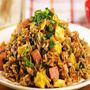
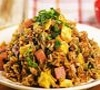
Archivo Menu
Metodos para crear y cargar archivo desde el controlador
Tamaño de Imaganes cambiado

diff --git a/src/controlador/ControladorArchivoMenu.java b/src/controlador/ControladorArchivoMenu.java
@@ -19,21 +19,20 @@ import modelo.Menu;
  */
 public class ControladorArchivoMenu {
 
-    private ArrayList<Comida> comidas;
-
-    public ControladorArchivoMenu() {
-        comidas = new ArrayList<Comida>();
-        leerArchivo();
-    }
-
-    public void leerArchivo() {
+//    private ArrayList<Comida> comidas;
+//
+//    public ControladorArchivoMenu() {
+//        comidas = new ArrayList<Comida>();
+//        leerArchivo();
+//    }
+    public void leerArchivo(ArrayList<Comida> a) {
         try {
             FileInputStream file = new FileInputStream("Comidas.dat");
             ObjectInputStream fileInput = new ObjectInputStream(file);
             boolean finArchivo = false;
             while (!finArchivo) {
                 try {
-                    comidas.add((Comida) fileInput.readObject());
+                    a.add((Comida) fileInput.readObject());
                 } catch (EOFException e) {
                     finArchivo = true;
                 } catch (Exception e) {
@@ -41,18 +40,17 @@ public class ControladorArchivoMenu {
                 }
             }
             fileInput.close();
-            cargarMenu();
         } catch (IOException e) {
             JOptionPane.showMessageDialog(null, "Sin comidas.");
         }
     }
 
-    public void salvarArchivo() {
+    public void salvarArchivo(ArrayList<Comida> a) {
         try {
             FileOutputStream file = new FileOutputStream("Comidas.dat");
             ObjectOutputStream fileOut = new ObjectOutputStream(file);
-            for (int i = 0; i < comidas.size(); i++) {
-                fileOut.writeObject(comidas.get(i));
+            for (int i = 0; i < a.size(); i++) {
+                fileOut.writeObject(a.get(i));
             }
             fileOut.close();
             JOptionPane.showMessageDialog(null, "Las comidas fueron registradas.");
@@ -61,42 +59,93 @@ public class ControladorArchivoMenu {
         }
     }
 
-    public void cargarComidas(ArrayList<Comida> comidas) {
-        Menu miMenu = Menu.getMenu();
-        for (Comida i : this.comidas) {
-            miMenu.addComida(i);
-        }
-    }
-
+//    public void cargarComidas(ArrayList<Comida> comidas) {
+//        Menu miMenu = Menu.getMenu();
+//        for (Comida i : this.comidas) {
+//            miMenu.addComida(i);
+//        }
+//    }
     //Para inicializar las comidas, luego borrar metodo.
-    public void inicializarMenu() {
+    public void inicializarMenu(ArrayList<Comida> a) {
+        Inventario miInventario = Inventario.getInventario();
+
         // comidas predefinidas
-        /*
-        Comida com0 = new Comida("Lomo Saltado", 12.5f);
-        Comida com1 = new Comida("Ají de Gallina", 10.0f);
-        Comida com2 = new Comida("Arroz con Pollo", 10.0f);        
-        Comida com3 = new Comida("Arroz Chaufa", 8.5f);
-        Comida com4 = new Comida("Aeropuerto", 12.0f);
-        Comida com5 = new Comida("Tallarín Saltado", 11.0f);
-        Comida com6 = new Comida("Seco a la Norteña", 13.50f);
-        Comida com7 = new Comida("Ceviche", 12.0f);
-         
-        comidas.add(com0);
-        comidas.add(com1);
-        comidas.add(com2);
-        comidas.add(com3);
-        comidas.add(com4);
-        comidas.add(com5);
-        comidas.add(com6);
-        comidas.add(com7);
-         */
-        salvarArchivo();
+        Comida com0 = new Comida("Lomo Saltado", 12.5f, "/imagenes/arrayComida/comida1.jpg");
+        Comida com1 = new Comida("Ají de Gallina", 10.0f, "/imagenes/arrayComida/comida2.jpg");
+        Comida com2 = new Comida("Arroz con Pollo", 10.0f, "/imagenes/arrayComida/comida3.jpg");
+        Comida com3 = new Comida("Arroz Chaufa", 8.5f, "/imagenes/arrayComida/comida4.jpg");
+        Comida com4 = new Comida("Aeropuerto", 12.0f, "/imagenes/arrayComida/comida5.jpg");
+        Comida com5 = new Comida("Tallarín Saltado", 11.0f, "/imagenes/arrayComida/comida6.jpg");
+        Comida com6 = new Comida("Seco a la Norteña", 13.50f, "/imagenes/arrayComida/comida7.jpg");
+        Comida com7 = new Comida("Ceviche", 12.0f, "/imagenes/arrayComida/comida8.jpg");
+
+        com0.agregarIngrediente(miInventario.buscarIngrediente("Lomo"));
+        com0.agregarIngrediente(miInventario.buscarIngrediente("Arroz"));
+        com0.agregarIngrediente(miInventario.buscarIngrediente("Papa"));
+        com0.agregarIngrediente(miInventario.buscarIngrediente("Cebolla"));
+
+        com1.agregarIngrediente(miInventario.buscarIngrediente("Gallina"));
+        com1.agregarIngrediente(miInventario.buscarIngrediente("Aji amarillo"));
+        com1.agregarIngrediente(miInventario.buscarIngrediente("Papa"));
+        com1.agregarIngrediente(miInventario.buscarIngrediente("Arroz"));
+
+        com2.agregarIngrediente(miInventario.buscarIngrediente("Arroz"));
+        com2.agregarIngrediente(miInventario.buscarIngrediente("Pollo"));
+        com2.agregarIngrediente(miInventario.buscarIngrediente("Alverjas"));
+        com2.agregarIngrediente(miInventario.buscarIngrediente("Zanahoria"));
+
+        com3.agregarIngrediente(miInventario.buscarIngrediente("Arroz"));
+        com3.agregarIngrediente(miInventario.buscarIngrediente("Pollo"));
+        com3.agregarIngrediente(miInventario.buscarIngrediente("Huevo"));
+        com3.agregarIngrediente(miInventario.buscarIngrediente("Pimenton"));
+
+        com4.agregarIngrediente(miInventario.buscarIngrediente("Pollo"));
+        com4.agregarIngrediente(miInventario.buscarIngrediente("Arroz"));
+        com4.agregarIngrediente(miInventario.buscarIngrediente("Huevo"));
+        com4.agregarIngrediente(miInventario.buscarIngrediente("Fideos"));
+
+        com5.agregarIngrediente(miInventario.buscarIngrediente("Fideos"));
+        com5.agregarIngrediente(miInventario.buscarIngrediente("Res"));
+        com5.agregarIngrediente(miInventario.buscarIngrediente("Cebolla China"));
+        com5.agregarIngrediente(miInventario.buscarIngrediente("Tomate"));
+
+        com6.agregarIngrediente(miInventario.buscarIngrediente("Res"));
+        com6.agregarIngrediente(miInventario.buscarIngrediente("Alverjas"));
+        com6.agregarIngrediente(miInventario.buscarIngrediente("Cebolla"));
+        com6.agregarIngrediente(miInventario.buscarIngrediente("Arroz"));
+
+        com7.agregarIngrediente(miInventario.buscarIngrediente("Pescado"));
+        com7.agregarIngrediente(miInventario.buscarIngrediente("Cebolla"));
+        com7.agregarIngrediente(miInventario.buscarIngrediente("Limones"));
+        com7.agregarIngrediente(miInventario.buscarIngrediente("Camote"));
+
+        a.add(com0);
+        a.add(com1);
+        a.add(com2);
+        a.add(com3);
+        a.add(com4);
+        a.add(com5);
+        a.add(com6);
+        a.add(com7);
+
     }
 
-    public void cargarMenu() {
+    public ArrayList<Comida> crearArrayList() {
+        ArrayList<Comida> a = new ArrayList<>();
+        return a;
+    }
+
+    public void cargarArchivo() {
         Menu miMenu = Menu.getMenu();
-        for (Comida i : this.comidas) {
-            miMenu.addComida(i);
-        }
+        ArrayList<Comida> temp = crearArrayList();
+        leerArchivo(temp);
+        miMenu.cargarComidas(temp);
+    }
+
+    public void crearArchivo() {
+        ArrayList<Comida> temp = crearArrayList();
+        leerArchivo(temp);
+        inicializarMenu(temp);
+        salvarArchivo(temp);
     }
 }

diff --git a/src/vista/PanelMenu.java b/src/vista/PanelMenu.java
@@ -5,6 +5,7 @@
  */
 package vista;
 
+import controlador.ControladorArchivoMenu;
 import java.awt.Image;
 import java.util.ArrayList;
 import javax.swing.Icon;
@@ -26,6 +27,7 @@ public class PanelMenu extends javax.swing.JPanel {
 
     ListaPedido misPedidos = ListaPedido.getListaPedido();
     Menu miMenu = Menu.getMenu();
+    ControladorArchivoMenu archivo;
 
     PanelDatos panDatos = new PanelDatos(this);
     ArrayList<Pedido> recibido = misPedidos.getPedidos();
@@ -33,7 +35,8 @@ public class PanelMenu extends javax.swing.JPanel {
 
     public PanelMenu() {
         initComponents();
-        miMenu.setLlenarComidas();
+        //miMenu.setLlenarComidas();
+
         setComidasDelMenu();
         actualizarTablas();
     }
@@ -210,7 +213,7 @@ public class PanelMenu extends javax.swing.JPanel {
         lblNombre7.setFont(new java.awt.Font("Tahoma", 1, 12)); // NOI18N
         lblNombre7.setHorizontalAlignment(javax.swing.SwingConstants.CENTER);
         lblNombre7.setText("Comida 7");
-        jPanel1.add(lblNombre7, new org.netbeans.lib.awtextra.AbsoluteConstraints(477, 330, 100, -1));
+        jPanel1.add(lblNombre7, new org.netbeans.lib.awtextra.AbsoluteConstraints(467, 330, 110, -1));
 
         btnFoodMenu7.setBackground(new java.awt.Color(102, 102, 102));
         btnFoodMenu7.setFont(new java.awt.Font("Tahoma", 1, 11)); // NOI18N

diff --git a/src/controlador/ControladorArchivoInventario.java b/src/controlador/ControladorArchivoInventario.java
@@ -27,7 +27,6 @@ public class ControladorArchivoInventario {
 //        inicializarInventario(temp);
 //        salvarArchivo(temp);
 //    }
-
     public void leerArchivo(ArrayList<Ingrediente> a) {
         try {
             FileInputStream file = new FileInputStream("ingredientes.dat");
@@ -81,7 +80,6 @@ public class ControladorArchivoInventario {
 //            }
 //        }
 //    }
-
     public void inicializarInventario(ArrayList<Ingrediente> a) {
         Ingrediente ing1 = new Ingrediente("Lomo", "carnes", 10);
         Ingrediente ing2 = new Ingrediente("Arroz", "vegetales", 10);
@@ -126,9 +124,22 @@ public class ControladorArchivoInventario {
 //            miInventario.addIngrediente(i);
 //        }
 //    }
-    
-    public ArrayList<Ingrediente> crearArrayList(){
+    public ArrayList<Ingrediente> crearArrayList() {
         ArrayList<Ingrediente> a = new ArrayList<>();
         return a;
+    }
+
+    public void crearArchivo() {
+        ArrayList<Ingrediente> temp = crearArrayList();
+        leerArchivo(temp);
+        inicializarInventario(temp);
+        salvarArchivo(temp);
+    }
+
+    public void cargarArchivo() {
+        Inventario miInventario = Inventario.getInventario();
+        ArrayList<Ingrediente> temp = crearArrayList();
+        leerArchivo(temp);
+        miInventario.cargarInventario(temp);
     }
 }

diff --git a/src/modelo/Menu.java b/src/modelo/Menu.java
@@ -1,5 +1,7 @@
 package modelo;
 
+import java.util.ArrayList;
+
 /**
  *
  * @author AlexTprog
@@ -48,6 +50,7 @@ public class Menu {
     }
 
     public Comida getComida(int pos) {
+        /*
         int i = 0;
         Comida c = null;
         while (comida[i] != null && i < comida.length) {
@@ -56,7 +59,8 @@ public class Menu {
             }
             i++;
         }
-        return c;
+         */
+        return this.comida[pos];
     }
 
     public Comida getComida(String nombre) {
@@ -71,17 +75,17 @@ public class Menu {
         return c;
     }
 
-    public static void setLlenarComidas() {
+    public void cargarComidas(ArrayList<Comida> listaComidas) {
+        for (Comida temp : listaComidas) {
+            addComida(temp);
+        }
+    }
 
+    public static void setLlenarComidas() {
         Comida comida1 = new Comida("Lomo Saltado", (float) 35.5, "/imagenes/arrayComida/comida1.jpg");
         Comida comida2 = new Comida("Aji de Gallina", (float) 40.5, "/imagenes/arrayComida/comida2.jpg");
-        //Comida comida3 = new Comida("Arroz con pollo", (float) 35.5);
-        //Comida comida4 = new Comida("Sopa Seca", (float) 35.5);
-
         menu.addComida(comida1);
         menu.addComida(comida2);
-        //menu.addComida(comida3);
-        //menu.addComida(comida4);
 
     }
 }

diff --git a/src/sam/SAM.java b/src/sam/SAM.java
@@ -6,9 +6,11 @@
 package sam;
 
 import controlador.ControladorArchivoInventario;
+import controlador.ControladorArchivoMenu;
 import controlador.ControladorVentanaPrincipal;
 import java.util.ArrayList;
 import modelo.Caja;
+import modelo.Comida;
 import modelo.Ingrediente;
 import modelo.Inventario;
 import modelo.ListaPedido;
@@ -35,6 +37,12 @@ public class SAM {
 //        inv.salvarArchivo(temp);
         //inv.inicializarInventario();
         //inv.salvarArchivo();
+        ControladorArchivoInventario archivoInventario = new ControladorArchivoInventario();
+        ControladorArchivoMenu archivoMenu = new ControladorArchivoMenu();
+
+        archivoInventario.cargarArchivo();
+        archivoMenu.cargarArchivo();
+
         VentanaPrincipal ventana = new VentanaPrincipal();
         ControladorVentanaPrincipal control = new ControladorVentanaPrincipal(ventana);
         control.iniciar();

diff --git a/src/vista/PanelInventario.java b/src/vista/PanelInventario.java
@@ -40,14 +40,6 @@ public class PanelInventario extends javax.swing.JPanel {
         ImageIcon TamañoV = new ImageIcon(imgVeget.getImage().getScaledInstance(40, 40, Image.SCALE_DEFAULT));
         this.tabpanel.setIconAt(0, TamañoV);
 
-        //Leyendo archivos de ingredientes
-        ing = new ControladorArchivoInventario();
-        ArrayList<Ingrediente> temp;
-        temp = ing.crearArrayList();
-        ing.leerArchivo(temp);
-
-        //Cargando archivos en clase inventario
-        miInventario.cargarInventario(temp);
         actualizarTablas();
 
 //        //Cargando Tablas y cbx

diff --git a/src/modelo/Comida.java b/src/modelo/Comida.java
@@ -1,12 +1,13 @@
 package modelo;
 
+import java.io.Serializable;
 import java.util.ArrayList;
 
 /**
  *
  * @author AlexTprog
  */
-public class Comida {
+public class Comida implements Serializable {
 
     private String nombre;
     private float precio;
